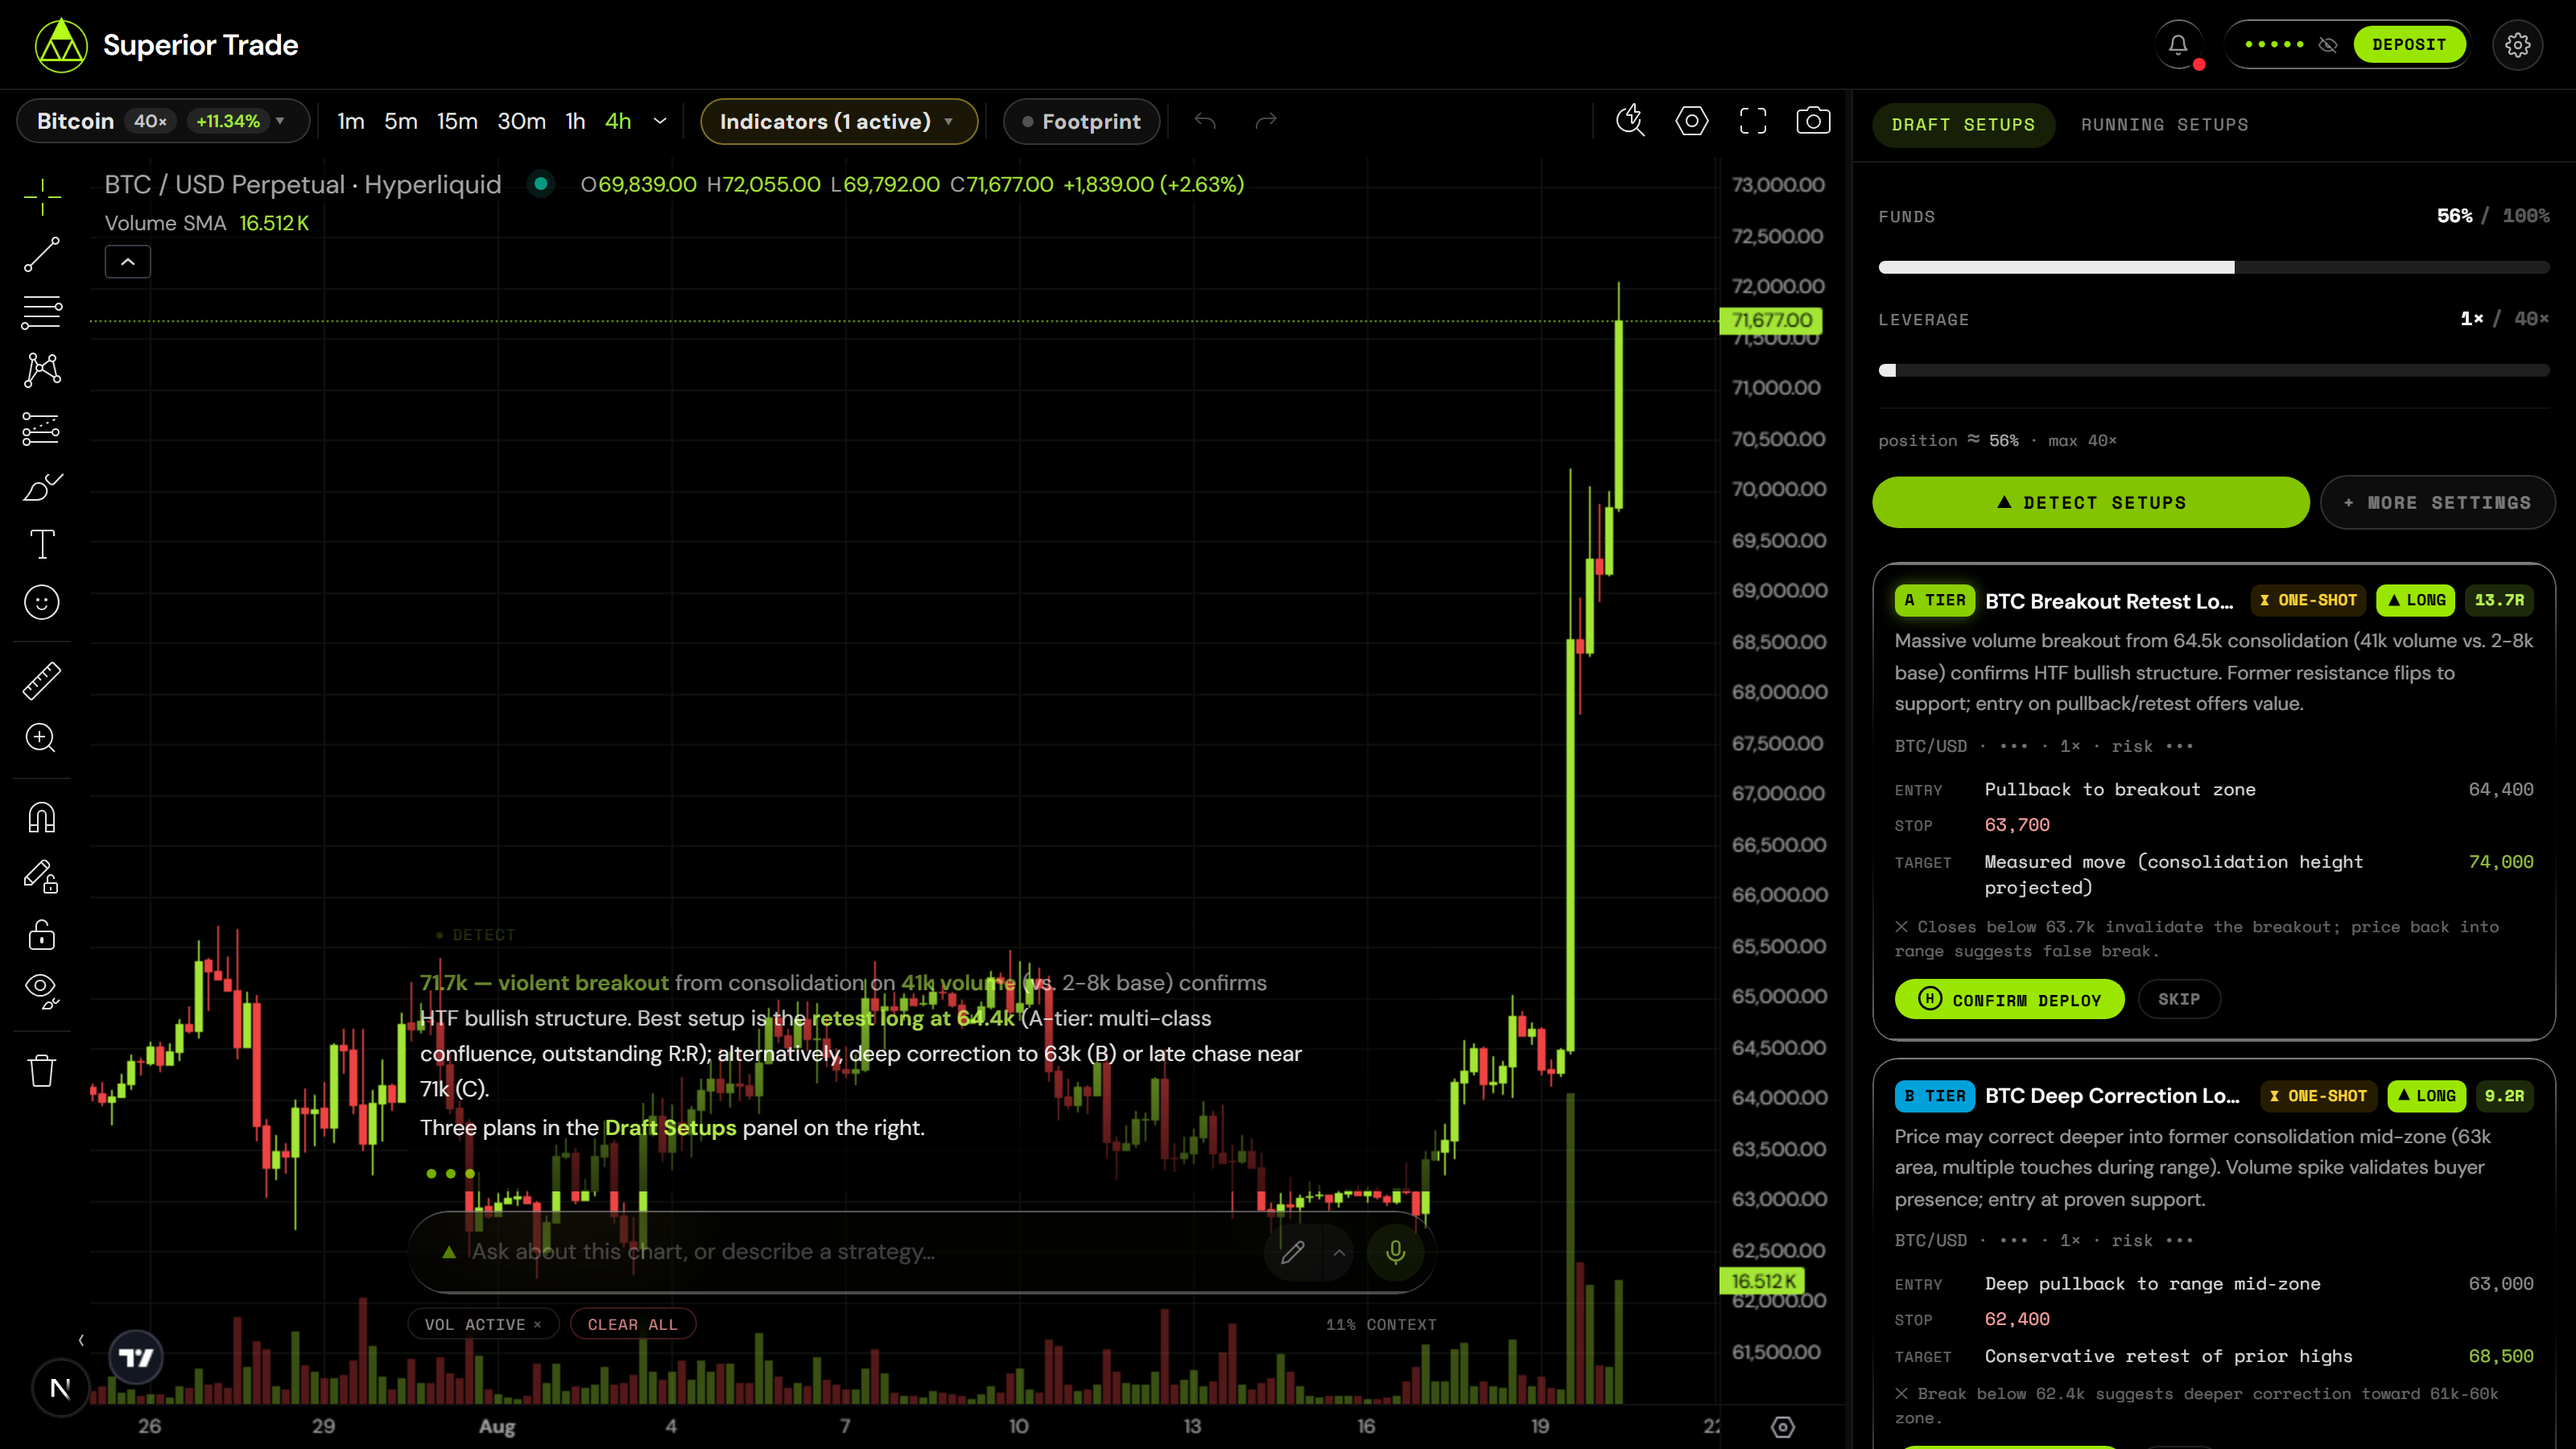
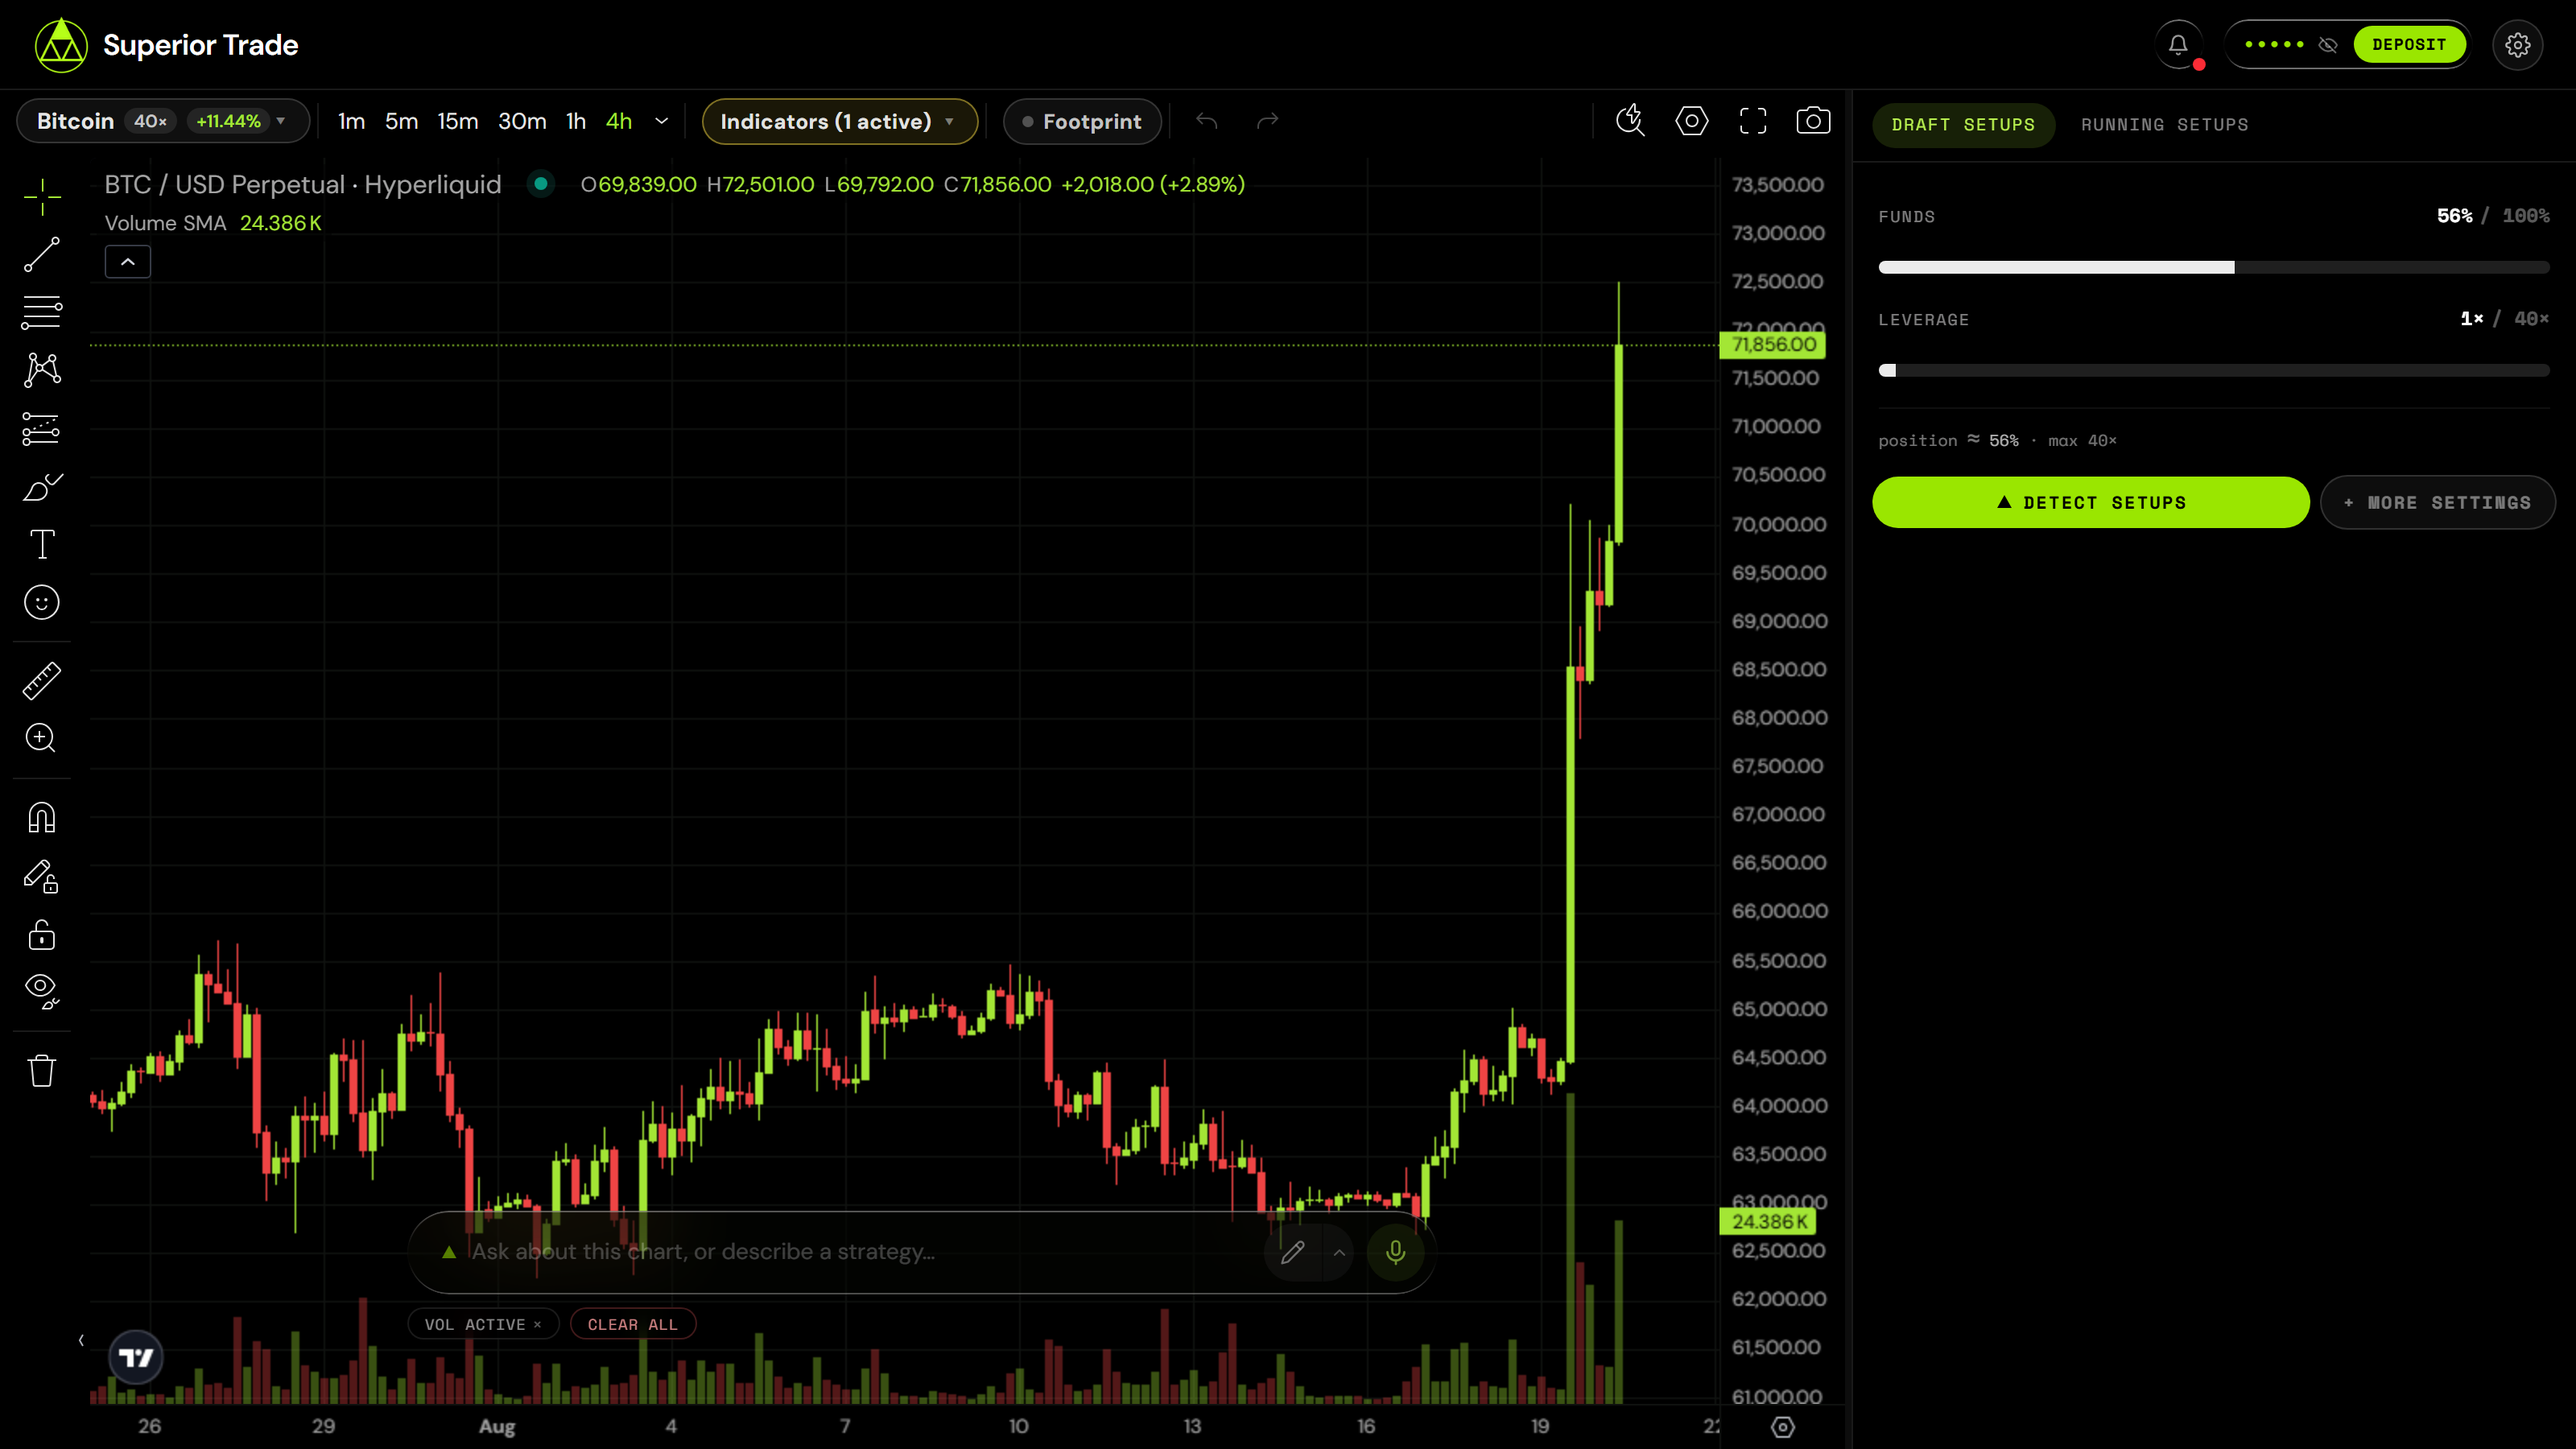
Fix the badge stack, a stranded caption, and the hero screenshot
FOUR THINGS, ALL VISIBLE ON THE PAGE.

Badges were stacking vertically. Inside a <div align="center"> GitHub turns each
newline into a <br>, so three badges on three lines became three rows. They are
one line now, which is the only reliable way to get them side by side in a
centered block.

"Hosted or self-hosted" looked wrong because of what preceded it: a caption
reading "The plan is not just text — entry, stop and target are drawn on the
chart…" describing setup-on-chart.png, an image deleted two commits ago. It was
floating with nothing above it, immediately followed by a different screenshot
with its own caption. Removed, and the remaining screenshot is now centered like
the hero instead of left-aligned against centered siblings.

A NEW HERO. The old one was taken straight after a detect, so the agent's written
answer was lying across the candles — the busiest possible version of the chart.
The cards persist, so the shot is now taken after a reload: same two setups with
their entry, stop, target and invalidation, and an unobstructed chart behind them.

It also had Next's dev-overlay pill ("1 Issue") sitting in the corner, which is
invisible in a production build and has no business in a screenshot. The capture
script now hides it, injected as an init script rather than addStyleTag so it
survives the reload the hero depends on.

While in there: a detect only runs when the panel is actually empty. Draft setups
[…]

diff --git a/README.md b/README.md
@@ -12,9 +12,7 @@ ones on the way.
 Run it yourself, or use the hosted build at
 [terminal.superior.trade](https://terminal.superior.trade).
 
-[![License](https://img.shields.io/badge/license-Apache--2.0-blue.svg?style=flat-square)](LICENSE)
-[![Node](https://img.shields.io/badge/node-%E2%89%A520.9-brightgreen.svg?style=flat-square)](https://nodejs.org)
-[![Next.js](https://img.shields.io/badge/Next.js-16-black.svg?style=flat-square)](https://nextjs.org)
+[![License](https://img.shields.io/badge/license-Apache--2.0-blue.svg?style=flat-square)](LICENSE) [![Node](https://img.shields.io/badge/node-%E2%89%A520.9-brightgreen.svg?style=flat-square)](https://nodejs.org) [![Next.js](https://img.shields.io/badge/Next.js-16-black.svg?style=flat-square)](https://nextjs.org)
 
 <img src="docs/media/terminal.png" alt="A path drawn on the chart, the agent scanning it, and a ranked setup returned with entry, stop and target" width="900">
 
@@ -59,13 +57,13 @@ def populate_entry_trend(self, dataframe: DataFrame, metadata: dict) -> DataFram
 **4. It runs.** Live PnL, an auto-stop timer if the edge is time-boxed, and an inbox
 that tells you when something happened.
 
-*The plan is not just text — entry, stop and target are drawn on the chart you are
-looking at, and every card carries its own reasoning, R multiple and confidence tier.*
+<div align="center">
 
 <img src="docs/media/deployments.png" alt="The running-setups panel listing deployed strategies with their status, levels and controls" width="900">
 
-*The other half: what you have deployed, what state each one is in, and the controls
-to restart, stop or delete it.*
+<sub>The other half — what you have deployed, what state it is in, and the controls.</sub>
+
+</div>
 
 ## Hosted or self-hosted
 
@@ -191,8 +189,8 @@ npm run preview       # render README.md the way GitHub will, images and all
 data, real model calls. It never spends money: deploying and withdrawing are the two
 irreversible actions and it stops short of both.
 
-`evals/` holds the agent evaluations. Prompt changes get judged there, not by vibes —
-see [CONTRIBUTING.md](CONTRIBUTING.md).
+`evals/` holds the agent evaluations, including the suites a prompt change should be
+measured against.
 
 ## Contributing
 
@@ -203,8 +201,6 @@ What merges here also ships to the hosted build — it runs this repository.
 
 ## License
 
-[Apache-2.0](LICENSE) © Superior Trade.
-
-The Superior Trade API is a hosted service and is not part of this repository.
-TradingView's Advanced Charts is licensed separately by TradingView and is not included.
-Third-party notices: [NOTICE](NOTICE).
+[Apache-2.0](LICENSE) © Superior Trade. TradingView's Advanced Charts is licensed
+separately by TradingView and is not included here — see [NOTICE](NOTICE) for that and
+the other third-party notices.
